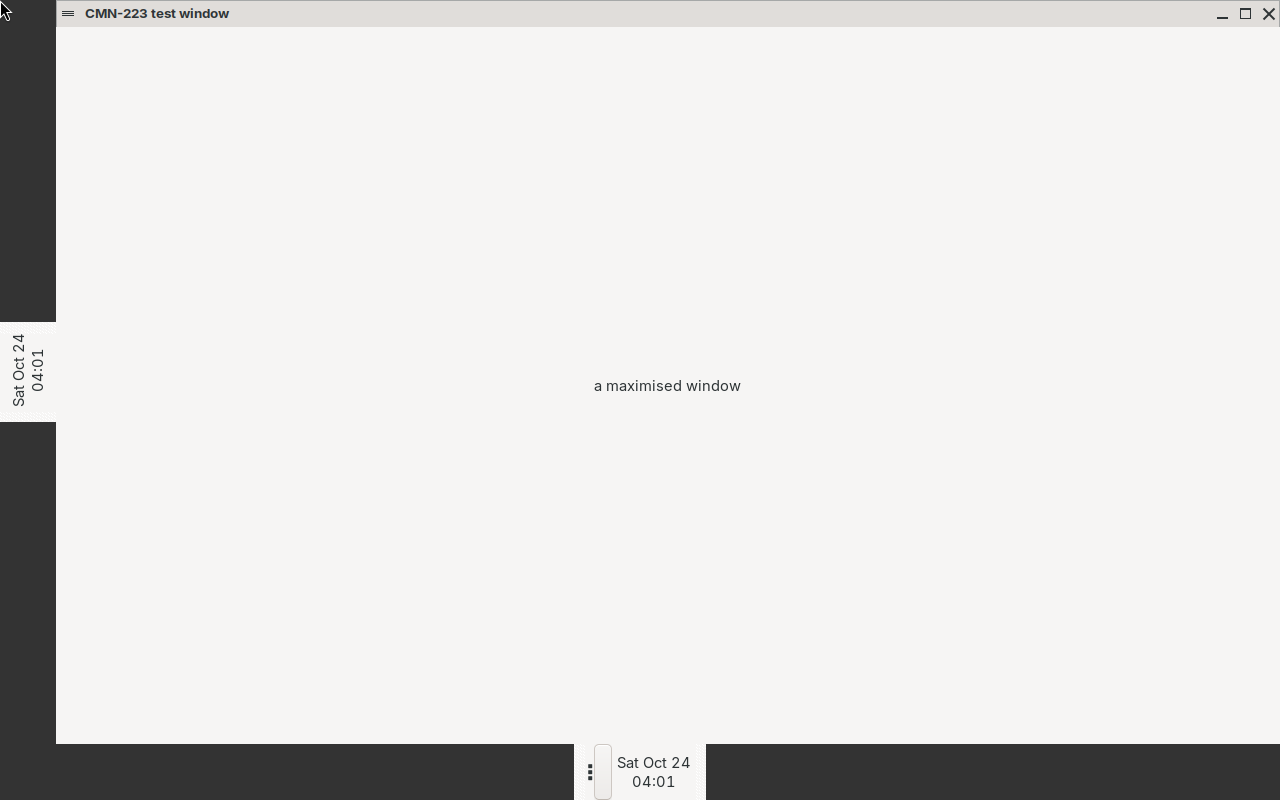
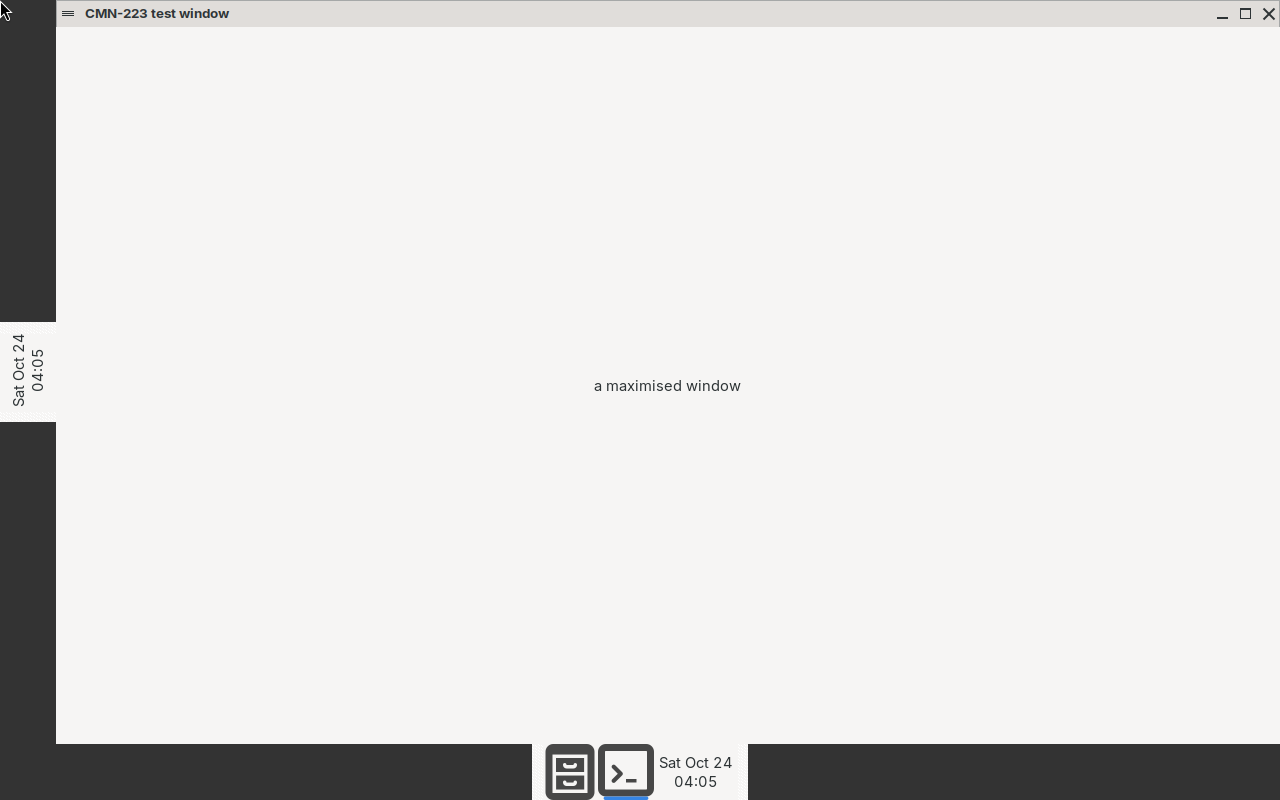
Show the Dock applet in the floating panel's check (ticket CMN-223)
The Dock applet came in with master (CMN-219), so the check's bottom panel has it, as the
ticket's first criterion asks, where it had the window list in its place: a kept program that
isn't running and the maximised window's, whose app id resolves to a desktop entry in a
throwaway XDG_DATA_HOME. The script builds the applet as CMN-219's check does, against the
patched mate-panel's applet library: one built against the stock .so.1 takes the panel's other
applets down with it. The work areas in report.txt are the same as before.

Changed region(s): [[0.4062, 0.9062, 0.5938, 1.0]]

diff --git a/.scratch/checks/CMN-223/client.py b/.scratch/checks/CMN-223/client.py
@@ -9,8 +9,10 @@ import sys
 import gi
 
 gi.require_version("Gtk", "3.0")
-from gi.repository import Gtk
+from gi.repository import GLib, Gtk
 
+# The app id, which the Dock resolves to run.sh's cmn-223-window.desktop.
+GLib.set_prgname("cmn-223-window")
 window = Gtk.Window(title="CMN-223 test window")
 window.set_default_size(560, 320)
 if sys.argv[1:] == ["maximized"]:
